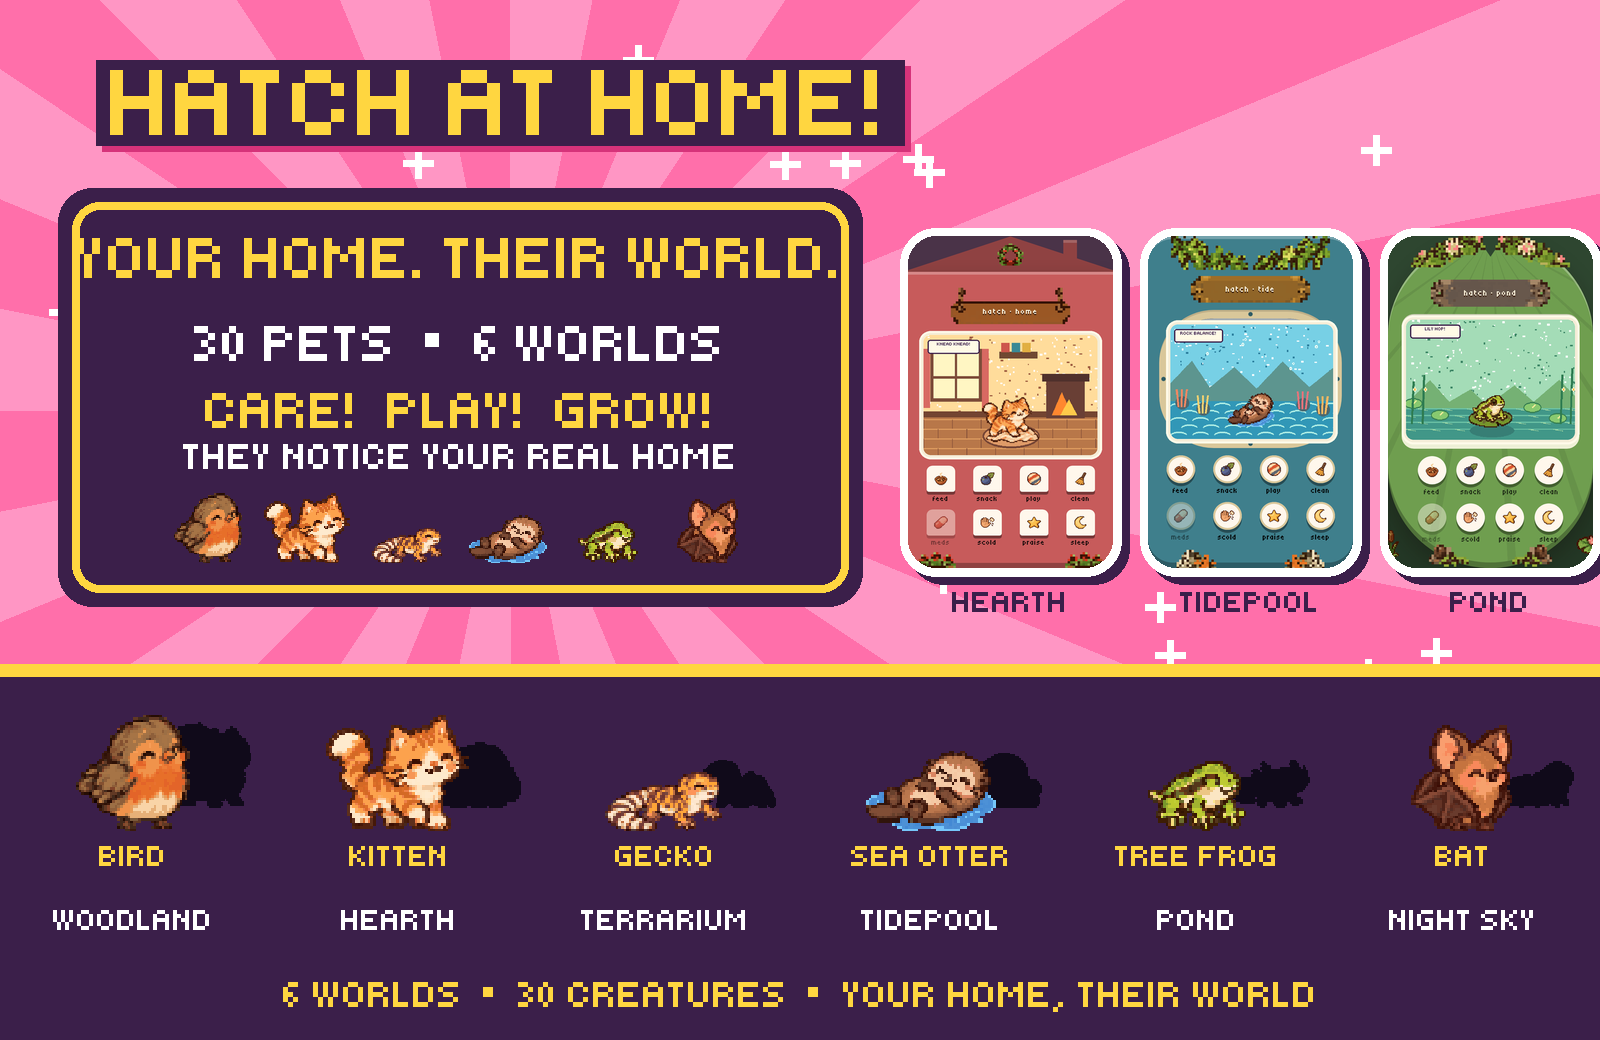
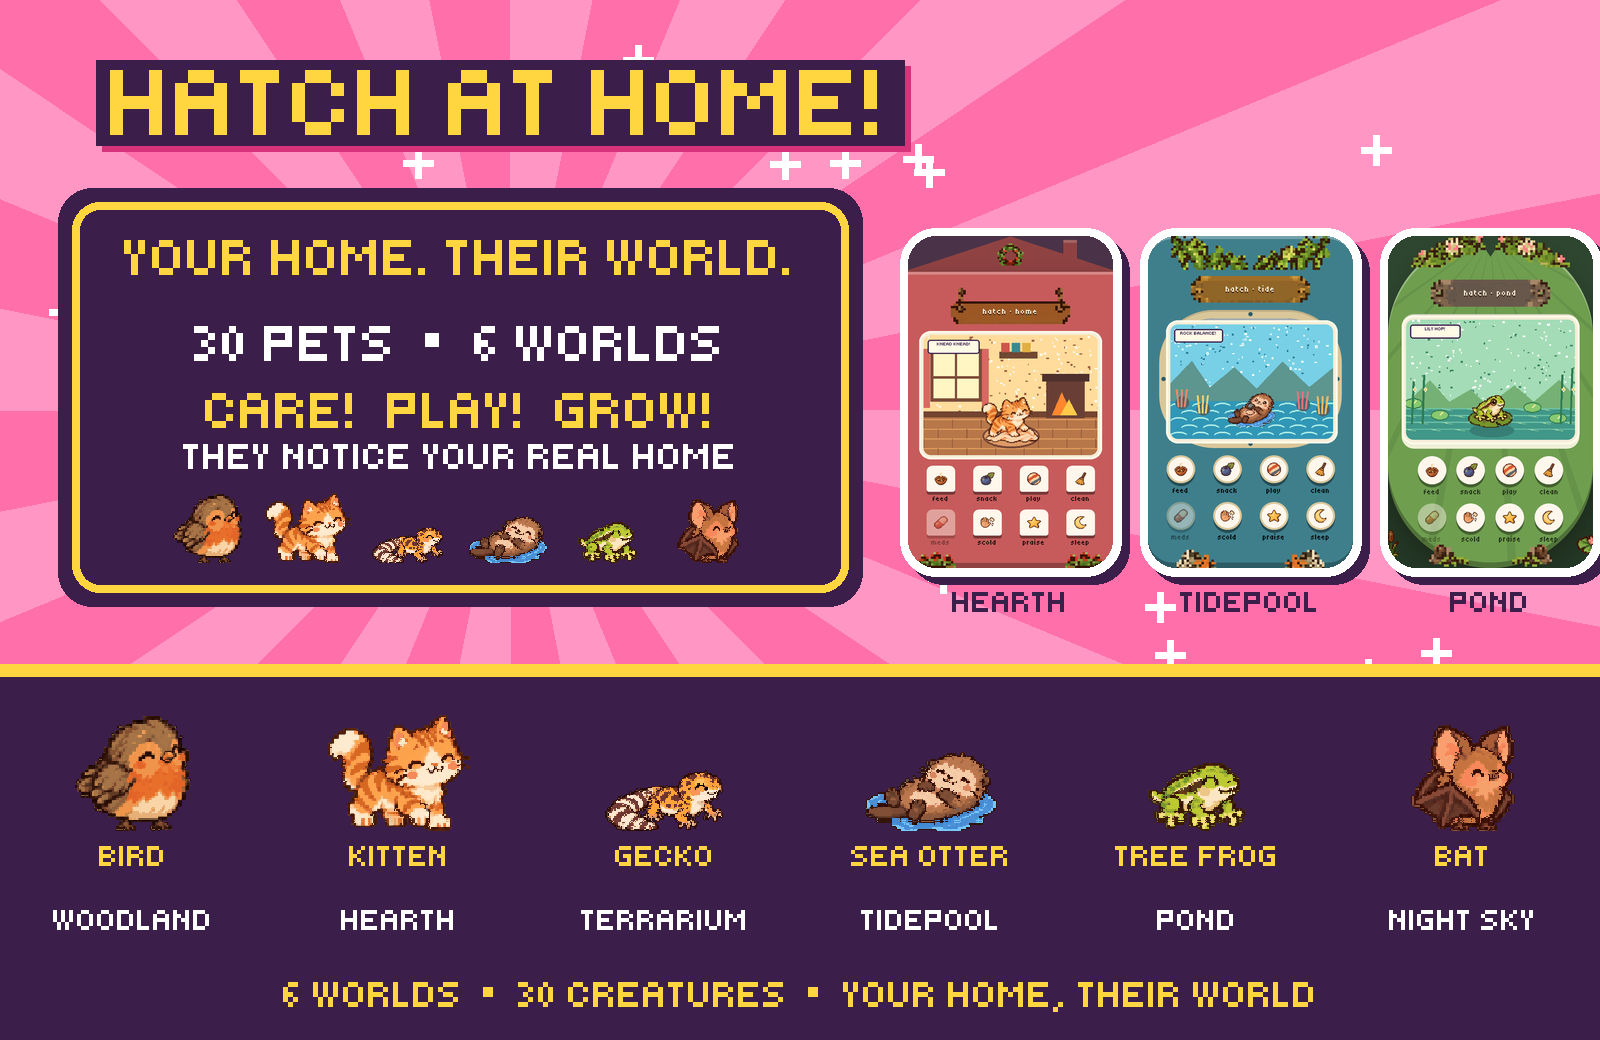
README box-front: drop the offset ghost silhouettes, fit the title in its panel
- Bottom row: the filled dark "ghost" of a second species sat offset to the right of each starter and read as a ragged blob; removed it so the six pets read cleanly.
- Top panel: "YOUR HOME. THEIR WORLD." at 8px ran past both edges of the panel (Y clipped); now 7px, centred with padding.

Claude-Session: https://claude.ai/code/session_01VHDmFoJVaH1ACyoW1jFuBM

diff --git a/scripts/readme/box_art.py b/scripts/readme/box_art.py
@@ -240,7 +240,7 @@ def box_front():
     # The left half is a proper toy-box feature panel, so the cover never reads empty.
     d.rounded_rectangle((58, 188, 862, 606), radius=34, fill=PURPLE)
     d.rounded_rectangle((72, 202, 848, 592), radius=28, outline=YELLOW, width=8)
-    pixel_text(im, (460, 238), "YOUR HOME. THEIR WORLD.", 8, YELLOW, anchor="ma")
+    pixel_text(im, (460, 240), "YOUR HOME. THEIR WORLD.", 7, YELLOW, anchor="ma")
     pixel_text(im, (460, 326), "30 PETS  •  6 WORLDS", 7, WHITE, anchor="ma")
     pixel_text(im, (460, 393), "CARE!  PLAY!  GROW!", 7, YELLOW, anchor="ma")
     pixel_text(im, (460, 444), "THEY NOTICE YOUR REAL HOME", 5, WHITE, anchor="ma")
@@ -257,15 +257,12 @@ def box_front():
         tile = rounded(tile, 28)
         drop(im, tile, (center-102, 236), radius=28, border=8, off=8)
         pixel_text(im, (center, 592), key.upper(), 4, PURPLE, anchor="ma")
-    # Each starter is foregrounded; one filled black teaser sits behind it.
+    # Each starter stands alone on the shelf; no offset ghost behind it.
     d.rectangle((0, 664, w, h), fill=PURPLE)
     d.rectangle((0, 664, w, 676), fill=YELLOW)
     slot_w = w // 6
     for i, (world, first, extras) in enumerate(WORLDS):
         center = slot_w*i + slot_w//2
-        if extras:
-            ghost = filled_silhouette(extras[0], 114)
-            im.alpha_composite(ghost, (center+15, 708))
         pet = first_sprite(first, 166)
         im.alpha_composite(pet, (center-83, 686))
         pixel_text(im, (center, 846), NAMES[first].upper(), 4, YELLOW, anchor="ma")
